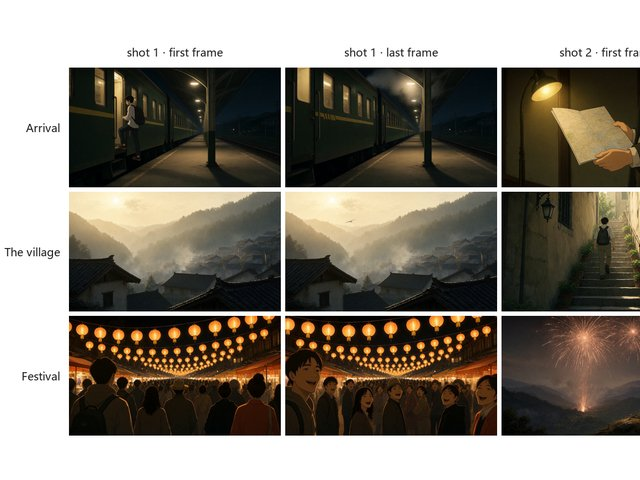
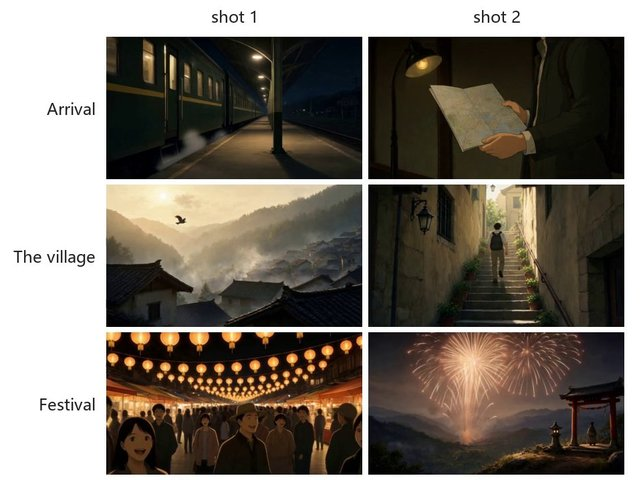
Templates: H3 on FastH3 OmniRef, a slides deck, Qwen XY plot; Prompt Template zips by branch
- arbor_h3_storyboard_video now runs FastH3 OmniRef (reference to video,
  8 steps, VSA sparse attention, SigmaShift 12/3 as in ComfyUI's template):
  every keyframe is <Picture 1> of its own clip, and Prompt Template writes
  the structured OmniRef prompt per shot.
- arbor_qwen_slides (new): a deck as pictures; one # page per slide plus a
  shared style line; pages saved in order by Save by Path, and Image Grid
  (columns 1) stacks them into one long picture.
- arbor_xy_sampler: Qwen Image 2.1 Turbo, seed x prompt (no placeholder
  checkpoint); arbor_xy_demo gets a note and groups; the storyboard sheet
  captions every frame with its shot.
- Prompt Template zip pairs branches like Expression (in order, longest
  list), keeps the tree and fills {name} with the branch name.
- Thumbnails, README, docs and tests follow.

diff --git a/tools/node_info.py b/tools/node_info.py
@@ -619,9 +619,9 @@ node("Arbor_NumberSlider", en=dict(
 """))
 
 node("Arbor_PromptTemplate", en=dict(
-    desc="Fill {a} {b} … in a template from trees. Cross builds every combination as a grid-ready tree; zip pairs items one by one.",
-    inputs={"template": "Text with placeholders {a} … {f}. Placeholders without a connected value stay as they are.",
-            "mode": "cross: every combination — rows = {a}, columns = the last variable used. zip: item by item (longest list).",
+    desc="Fill {a} {b} … in a template from trees. Cross builds every combination as a grid-ready tree; zip pairs them branch by branch and item by item, like Grasshopper.",
+    inputs={"template": "Text with placeholders {a} … {f} (and, in zip mode, {name} — the branch's name). Placeholders without a connected value stay as they are. Several lines are fine.",
+            "mode": "cross: every combination — rows = {a}, columns = the last variable used. zip: branches paired in order, items one by one (longest list), the tree keeps its branches and names.",
             "vars": "Values for {a}, {b}, … — a tree, a list or a single value. Each connection adds the next letter."},
     outputs=["Every filled prompt as plain data — connect straight to a text encoder (it runs once per prompt).",
              "The prompts as a tree (cross: one branch per combination of the outer variables — ready for Image Grid)."],
@@ -633,14 +633,24 @@ Template `a photo of {a}, {b} style`, a = `cat, dog`, b = `oil, ink`:
 | cross | `{0}: cat·oil, cat·ink` · `{1}: dog·oil, dog·ink` |
 | zip | `{0}: cat·oil, dog·ink` |
 
+## Zip with branches
+Zip matches like **Expression**: branch by branch in order, item by item, the shorter list repeating its last item. Two shots per scene against one sound line per scene:
+```
+a = {0} Arrival: door, map · {1} Village: mist, steps
+b = {0}: horn · {1}: bells          template "{name}: {a} + {b}"
+→ {0} Arrival: "Arrival: door + horn", "Arrival: map + horn"
+  {1} Village: "Village: mist + bells", "Village: steps + bells"
+```
+`{name}` is the branch's name (a scene, a page). Template: *arbor_h3_storyboard_video* writes a structured video prompt per shot this way.
+
 ## Tips
 - Type the values in **Panels** (one per line) and connect their *data* output (or *tree*, to keep branches).
 - Connect *data* to a text encoder: the sampler runs once per prompt. Connect *tree* to **Image Grid**'s *shape* to lay the images out in the same rows. Up to 10 000 combinations.
 """), zh=dict(
     name="提示词模板",
-    desc="用数据树填充模板中的 {a} {b} ……。交叉：生成所有组合，直接得到可做网格的数据树；配对：逐项对应。",
-    inputs={"template": ("模板", "带占位符 {a} … {f} 的文本；没接值的占位符保持原样。"),
-            "mode": ("模式", "cross 交叉：所有组合——行 = {a}，列 = 最后一个用到的变量。zip 配对：逐项对应（最长列表）。"),
+    desc="用数据树填充模板中的 {a} {b} ……。交叉：生成所有组合，直接得到可做网格的数据树；配对：像 Grasshopper 一样按分支、逐项对应。",
+    inputs={"template": ("模板", "带占位符 {a} … {f} 的文本（配对模式下还有 {name}——分支的名字）；没接值的占位符保持原样。可以写多行。"),
+            "mode": ("模式", "cross 交叉：所有组合——行 = {a}，列 = 最后一个用到的变量。zip 配对：按顺序配对分支、逐项对应（最长列表），结果保留分支和名字。"),
             "vars": ("变量", "{a}、{b} …… 的取值——数据树、列表或单个值。每接一个就多出下一个字母。")},
     outputs=[("数据", "所有填好的提示词（普通数据）——可直接接文本编码器，每个提示词运行一次。"),
              ("数据树", "提示词数据树（交叉模式下，外层变量的每种组合一个分支——可直接做图像网格）。")],
@@ -651,6 +661,16 @@ Template `a photo of {a}, {b} style`, a = `cat, dog`, b = `oil, ink`:
 |---|---|
 | cross 交叉 | `{0}: cat·oil, cat·ink` · `{1}: dog·oil, dog·ink` |
 | zip 配对 | `{0}: cat·oil, dog·ink` |
+
+## 按分支配对
+配对模式与 **表达式** 的匹配方式相同：分支按顺序配对，分支内逐项对应，较短的列表重复最后一项。每个场景两个镜头，配上每个场景一句声音描述：
+```
+a = {0} Arrival: door, map · {1} Village: mist, steps
+b = {0}: horn · {1}: bells          模板 "{name}: {a} + {b}"
+→ {0} Arrival: "Arrival: door + horn", "Arrival: map + horn"
+  {1} Village: "Village: mist + bells", "Village: steps + bells"
+```
+`{name}` 是分支的名字（场景、页面）。模板 *arbor_h3_storyboard_video* 就是这样为每个镜头写结构化的视频提示词。
 
 ## 提示
 - 在 **面板** 里逐行输入取值，接它的 *数据* 输出（想保留分支就接 *数据树*）。

diff --git a/arbor/nodes_data.py b/arbor/nodes_data.py
@@ -183,7 +183,8 @@ class PromptTemplate(IO.ComfyNode):
         return schema(
             "Arbor_PromptTemplate", "Prompt Template", CAT_DATA,
             "Fill {a} {b} … in a template from trees. Cross: every combination, as a grid-ready tree "
-            "(rows = a, columns = last variable). Zip: item by item.",
+            "(rows = a, columns = last variable). Zip: item by item, branches paired like Grasshopper "
+            "(in order, longest list); {name} is the branch's name.",
             [IO.String.Input("template", multiline=True, default="a photo of {a}, {b}"),
              IO.Combo.Input("mode", options=["cross", "zip"], default="cross"),
              IO.Autogrow.Input("vars", template=vars_, optional=True)],
@@ -205,9 +206,17 @@ class PromptTemplate(IO.ComfyNode):
         if not filled:
             return both(T.DataTree({(0,): [fill({})]}))
         if unwrap(mode) == "zip":
-            n = max(len(lists[k]) for k in filled)
-            return both(T.DataTree({(0,): [fill({k: lists[k][min(i, len(lists[k]) - 1)] for k in filled})
-                                           for i in range(n)]}))
+            # branches pair in order, items longest-list (Expression's matching); the tree keeps the
+            # branches and names of the input with the longest paths, and {name} is the branch's name
+            pairs, master = T.match_branches(*(given[k] for k in filled))
+            out = {}
+            for path, branches in pairs:
+                lengths = [len(b) if b else 0 for b in branches]
+                n = 0 if 0 in lengths else max(lengths)
+                name = master.label(path, label_of) or ""
+                out[path] = [fill({k: label_of(b[min(i, len(b) - 1)]) for k, b in zip(filled, branches)})
+                             .replace("{name}", name) for i in range(n)]
+            return both(T.DataTree(out, master.names))
         total = math.prod(len(lists[k]) for k in filled)
         if total > MAX_COMBOS:
             raise ValueError(f"Prompt Template: {total} combinations (max {MAX_COMBOS})")

diff --git a/tests/test_offline.py b/tests/test_offline.py
@@ -139,7 +139,15 @@ def test_data_nodes():
     assert data == cross.flat(), "data = every prompt, flat"
     z = res(run(nodes_data.PromptTemplate, template="{a}/{b}/{c}", mode="zip", vars={"a": [a], "b": [b]}))[1]
     assert z.branches == {(0,): ["cat/oil/{c}", "dog/ink/{c}", "dog/pixel/{c}"]}, z.branches
-    one = res(run(nodes_data.PromptTemplate, template="{a}!", mode="cross", vars={"a": [7, 8]}))[1]
+    # zip pairs branches like Grasshopper: two shots per scene, one sound line per scene, {name} = scene
+    shots = T.DataTree({(0,): ["door", "map"], (1,): ["mist", "steps"]}, {(0,): "Arrival", (1,): "Village"})
+    sounds = T.DataTree({(0,): ["horn"], (1,): ["bells"]})
+    sz = res(run(nodes_data.PromptTemplate, template="{name}: {a} + {b}", mode="zip",
+                 vars={"a": [shots], "b": [sounds]}))[1]
+    assert sz.branches == {(0,): ["Arrival: door + horn", "Arrival: map + horn"],
+                           (1,): ["Village: mist + bells", "Village: steps + bells"]}, sz.branches
+    assert sz.names == shots.names
+    one =res(run(nodes_data.PromptTemplate, template="{a}!", mode="cross", vars={"a": [7, 8]}))[1]
     assert one.branches == {(0,): ["7!", "8!"]}
     # the trailing empty Autogrow slot arrives as [None] in a real run
     pt = res(run(nodes_data.PromptTemplate, template="{a}-{b}", mode="cross",

diff --git a/web/docs/Arbor_PromptTemplate/zh.md b/web/docs/Arbor_PromptTemplate/zh.md
@@ -1,13 +1,13 @@
 # 提示词模板
 
-用数据树填充模板中的 {a} {b} ……。交叉：生成所有组合，直接得到可做网格的数据树；配对：逐项对应。
+用数据树填充模板中的 {a} {b} ……。交叉：生成所有组合，直接得到可做网格的数据树；配对：像 Grasshopper 一样按分支、逐项对应。
 
 ## 输入
 
 - **模板** `template` · *STRING*  
-  带占位符 {a} … {f} 的文本；没接值的占位符保持原样。
+  带占位符 {a} … {f} 的文本（配对模式下还有 {name}——分支的名字）；没接值的占位符保持原样。可以写多行。
 - **模式** `mode` · *COMBO (cross · zip)*  
-  cross 交叉：所有组合——行 = {a}，列 = 最后一个用到的变量。zip 配对：逐项对应（最长列表）。
+  cross 交叉：所有组合——行 = {a}，列 = 最后一个用到的变量。zip 配对：按顺序配对分支、逐项对应（最长列表），结果保留分支和名字。
 - **变量** `vars` · *任意 × N，可选，连接后自动增加*  
   {a}、{b} …… 的取值——数据树、列表或单个值。每接一个就多出下一个字母。
 
@@ -25,6 +25,16 @@
 |---|---|
 | cross 交叉 | `{0}: cat·oil, cat·ink` · `{1}: dog·oil, dog·ink` |
 | zip 配对 | `{0}: cat·oil, dog·ink` |
+
+## 按分支配对
+配对模式与 **表达式** 的匹配方式相同：分支按顺序配对，分支内逐项对应，较短的列表重复最后一项。每个场景两个镜头，配上每个场景一句声音描述：
+```
+a = {0} Arrival: door, map · {1} Village: mist, steps
+b = {0}: horn · {1}: bells          模板 "{name}: {a} + {b}"
+→ {0} Arrival: "Arrival: door + horn", "Arrival: map + horn"
+  {1} Village: "Village: mist + bells", "Village: steps + bells"
+```
+`{name}` 是分支的名字（场景、页面）。模板 *arbor_h3_storyboard_video* 就是这样为每个镜头写结构化的视频提示词。
 
 ## 提示
 - 在 **面板** 里逐行输入取值，接它的 *数据* 输出（想保留分支就接 *数据树*）。

diff --git a/web/docs/Arbor_PromptTemplate.md b/web/docs/Arbor_PromptTemplate.md
@@ -1,13 +1,13 @@
 # Prompt Template
 
-Fill {a} {b} … in a template from trees. Cross builds every combination as a grid-ready tree; zip pairs items one by one.
+Fill {a} {b} … in a template from trees. Cross builds every combination as a grid-ready tree; zip pairs them branch by branch and item by item, like Grasshopper.
 
 ## Inputs
 
 - **template** · *STRING*  
-  Text with placeholders {a} … {f}. Placeholders without a connected value stay as they are.
+  Text with placeholders {a} … {f} (and, in zip mode, {name} — the branch's name). Placeholders without a connected value stay as they are. Several lines are fine.
 - **mode** · *COMBO (cross · zip)*  
-  cross: every combination — rows = {a}, columns = the last variable used. zip: item by item (longest list).
+  cross: every combination — rows = {a}, columns = the last variable used. zip: branches paired in order, items one by one (longest list), the tree keeps its branches and names.
 - **vars** · *any × N, optional, grows as you connect*  
   Values for {a}, {b}, … — a tree, a list or a single value. Each connection adds the next letter.
 
@@ -25,6 +25,16 @@ Template `a photo of {a}, {b} style`, a = `cat, dog`, b = `oil, ink`:
 |---|---|
 | cross | `{0}: cat·oil, cat·ink` · `{1}: dog·oil, dog·ink` |
 | zip | `{0}: cat·oil, dog·ink` |
+
+## Zip with branches
+Zip matches like **Expression**: branch by branch in order, item by item, the shorter list repeating its last item. Two shots per scene against one sound line per scene:
+```
+a = {0} Arrival: door, map · {1} Village: mist, steps
+b = {0}: horn · {1}: bells          template "{name}: {a} + {b}"
+→ {0} Arrival: "Arrival: door + horn", "Arrival: map + horn"
+  {1} Village: "Village: mist + bells", "Village: steps + bells"
+```
+`{name}` is the branch's name (a scene, a page). Template: *arbor_h3_storyboard_video* writes a structured video prompt per shot this way.
 
 ## Tips
 - Type the values in **Panels** (one per line) and connect their *data* output (or *tree*, to keep branches).

diff --git a/web/docs/Arbor_PromptTemplate/en.md b/web/docs/Arbor_PromptTemplate/en.md
@@ -1,13 +1,13 @@
 # Prompt Template
 
-Fill {a} {b} … in a template from trees. Cross builds every combination as a grid-ready tree; zip pairs items one by one.
+Fill {a} {b} … in a template from trees. Cross builds every combination as a grid-ready tree; zip pairs them branch by branch and item by item, like Grasshopper.
 
 ## Inputs
 
 - **template** · *STRING*  
-  Text with placeholders {a} … {f}. Placeholders without a connected value stay as they are.
+  Text with placeholders {a} … {f} (and, in zip mode, {name} — the branch's name). Placeholders without a connected value stay as they are. Several lines are fine.
 - **mode** · *COMBO (cross · zip)*  
-  cross: every combination — rows = {a}, columns = the last variable used. zip: item by item (longest list).
+  cross: every combination — rows = {a}, columns = the last variable used. zip: branches paired in order, items one by one (longest list), the tree keeps its branches and names.
 - **vars** · *any × N, optional, grows as you connect*  
   Values for {a}, {b}, … — a tree, a list or a single value. Each connection adds the next letter.
 
@@ -25,6 +25,16 @@ Template `a photo of {a}, {b} style`, a = `cat, dog`, b = `oil, ink`:
 |---|---|
 | cross | `{0}: cat·oil, cat·ink` · `{1}: dog·oil, dog·ink` |
 | zip | `{0}: cat·oil, dog·ink` |
+
+## Zip with branches
+Zip matches like **Expression**: branch by branch in order, item by item, the shorter list repeating its last item. Two shots per scene against one sound line per scene:
+```
+a = {0} Arrival: door, map · {1} Village: mist, steps
+b = {0}: horn · {1}: bells          template "{name}: {a} + {b}"
+→ {0} Arrival: "Arrival: door + horn", "Arrival: map + horn"
+  {1} Village: "Village: mist + bells", "Village: steps + bells"
+```
+`{name}` is the branch's name (a scene, a page). Template: *arbor_h3_storyboard_video* writes a structured video prompt per shot this way.
 
 ## Tips
 - Type the values in **Panels** (one per line) and connect their *data* output (or *tree*, to keep branches).
